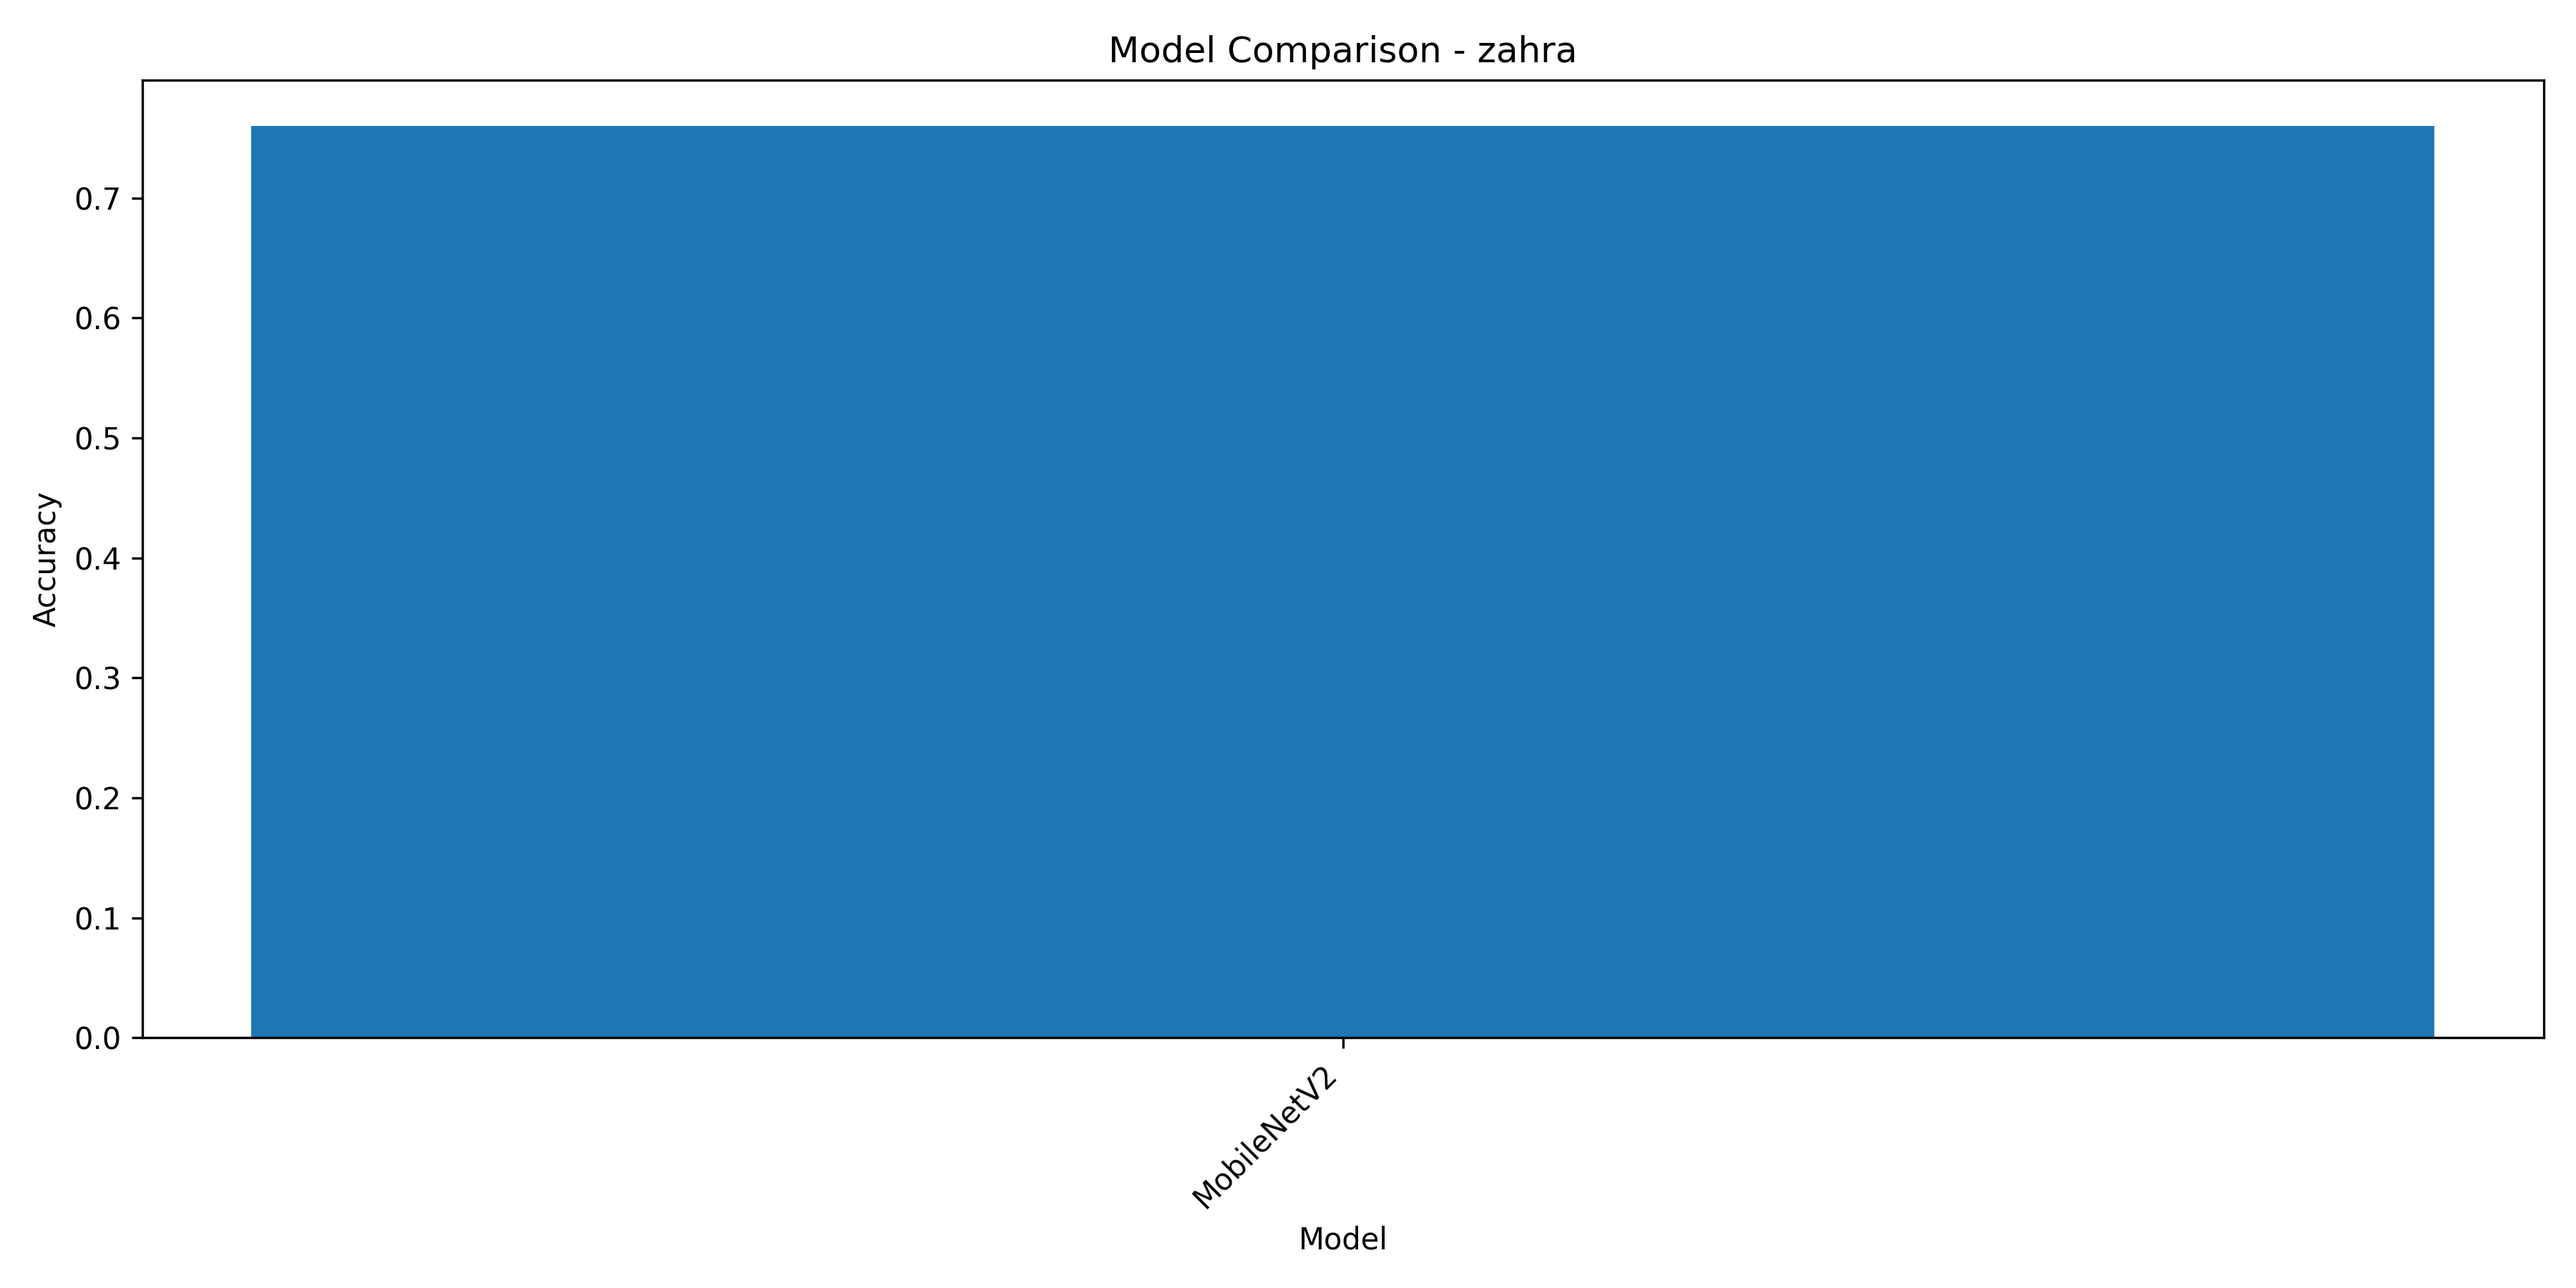
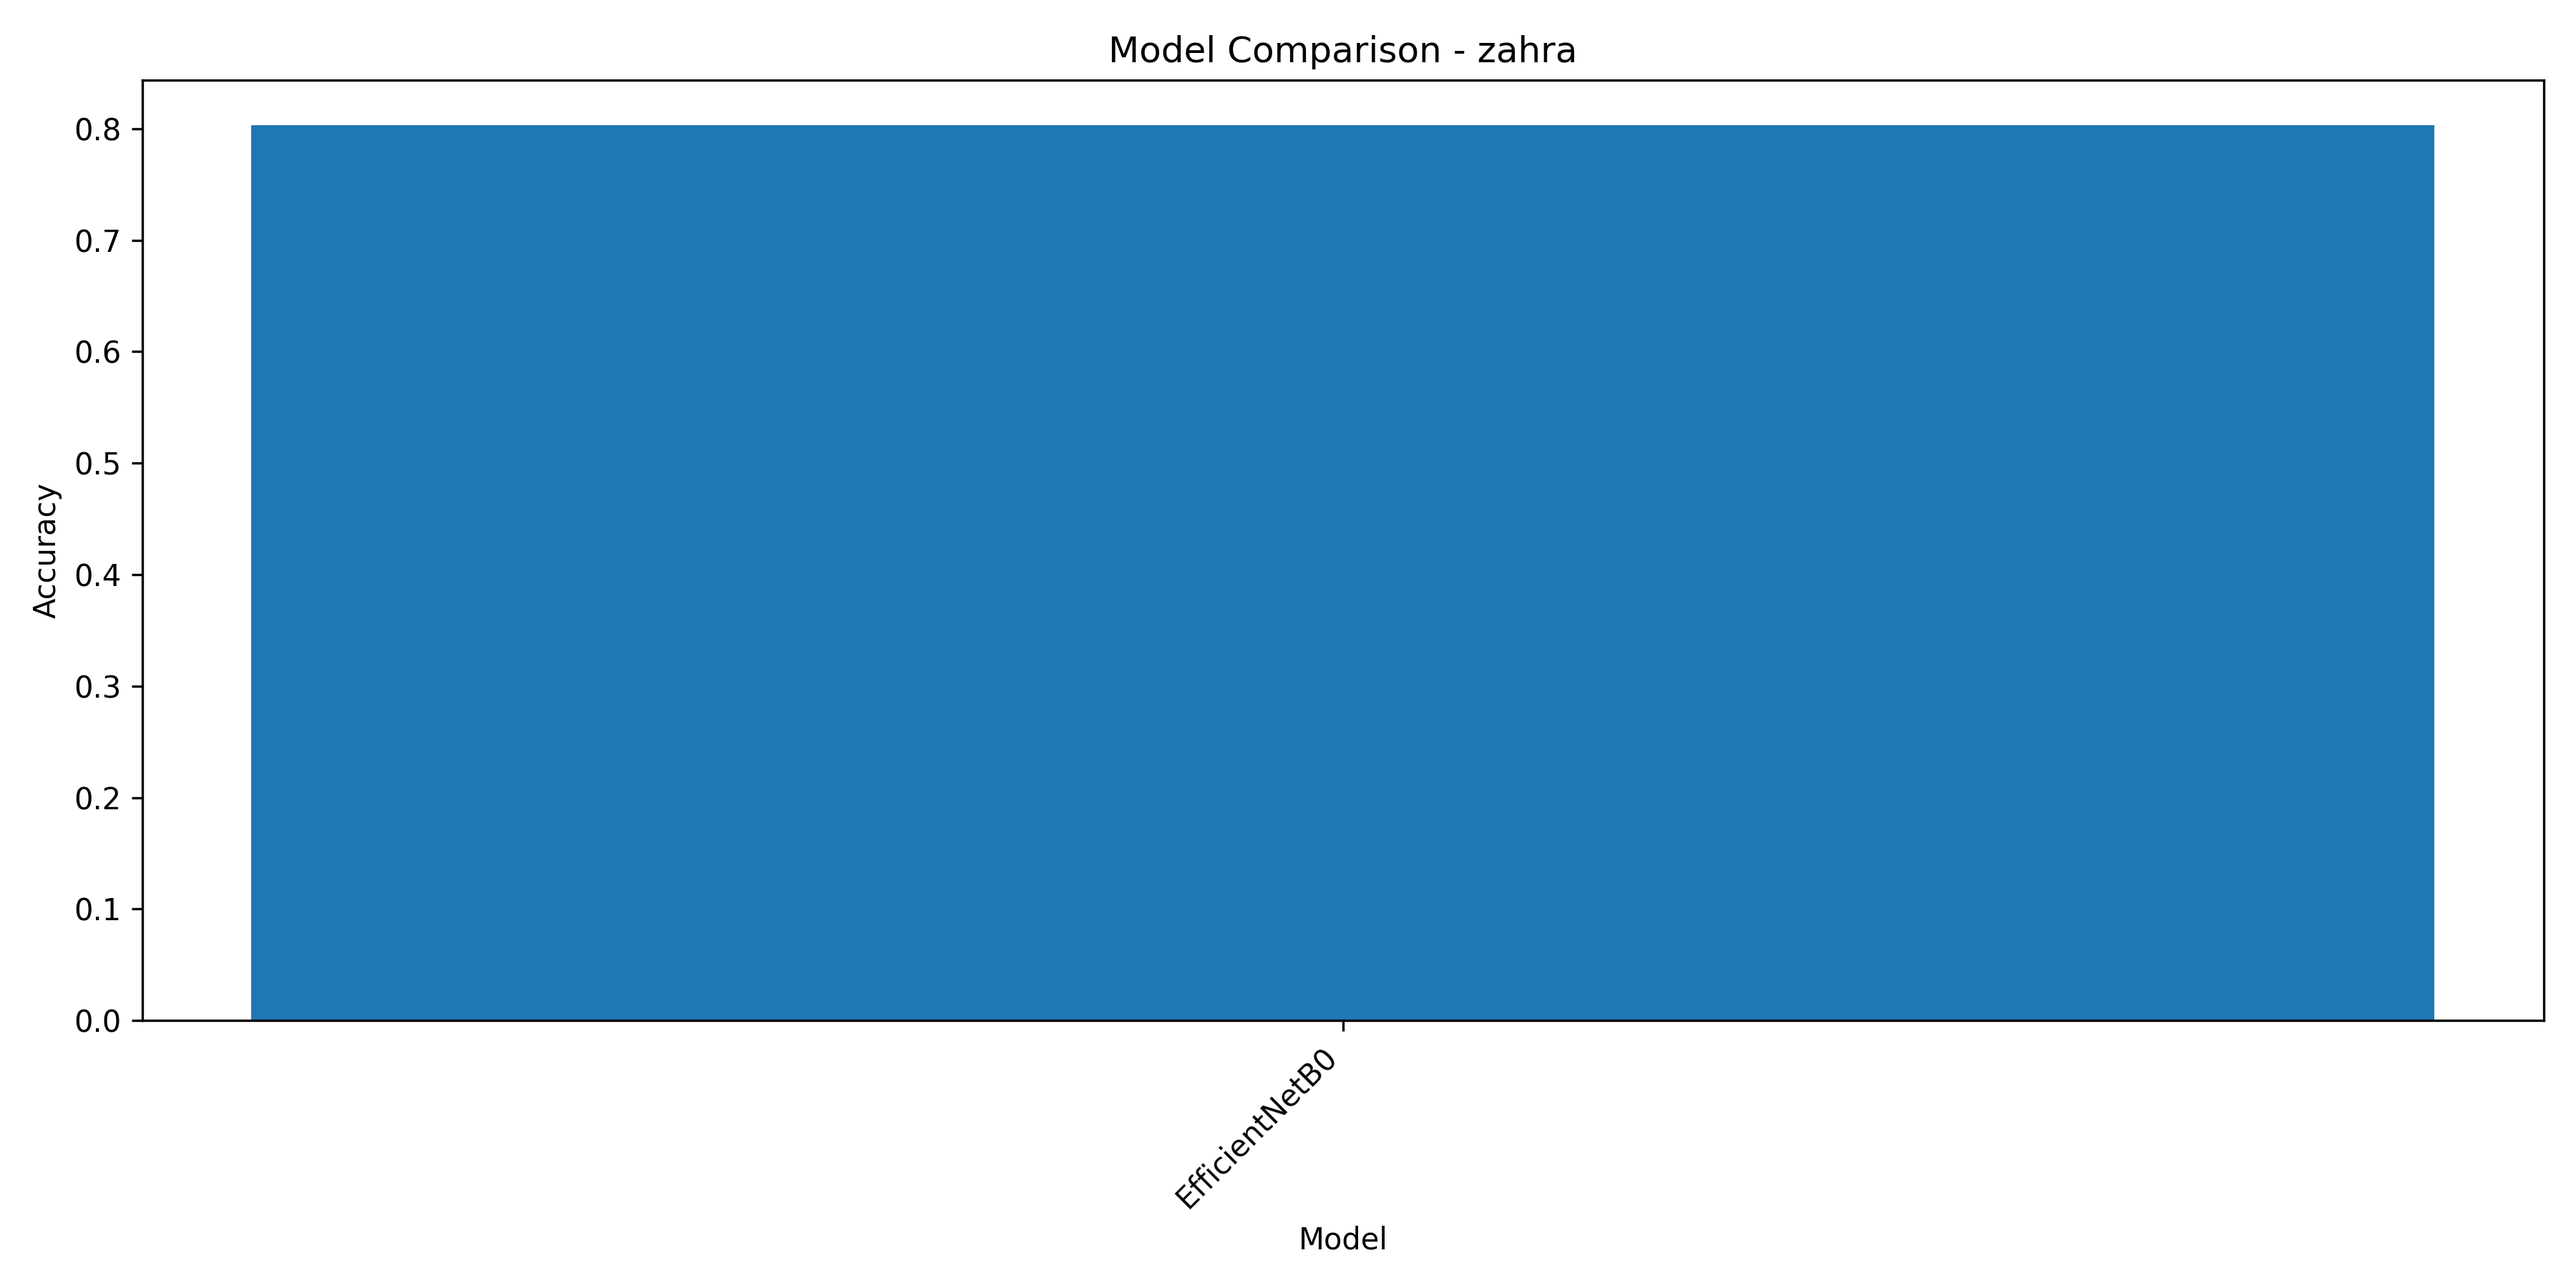
EfficientNetB0

diff --git a/src/train_keras_models.py b/src/train_keras_models.py
@@ -246,11 +246,15 @@ def train_model(model_name, person_name):
     
 
         # Save final model
-    final_path = os.path.join(CHECKPOINT_DIR, f'final_{model_name}.h5')
-    model.compile(optimizer=model.optimizer, loss='sparse_categorical_crossentropy', metrics=['accuracy'])
-    model.optimizer = None
-    model.save(final_path)
-    print(f"Final model saved to {final_path}")
+    # final_path = os.path.join(CHECKPOINT_DIR, f'final_{model_name}.h5')
+    # model.compile(optimizer=model.optimizer, loss='sparse_categorical_crossentropy', metrics=['accuracy'])
+    # model.optimizer = None
+    # model.save(final_path)
+    # Save final model
+    # Save final model - weights only to avoid EagerTensor serialization bug
+    final_path = os.path.join(CHECKPOINT_DIR, f'final_{model_name}.weights.h5')
+    model.save_weights(final_path)
+    print(f"Final model weights saved to {final_path}")
     # Clear memory
     del model
     tf.keras.backend.clear_session()
